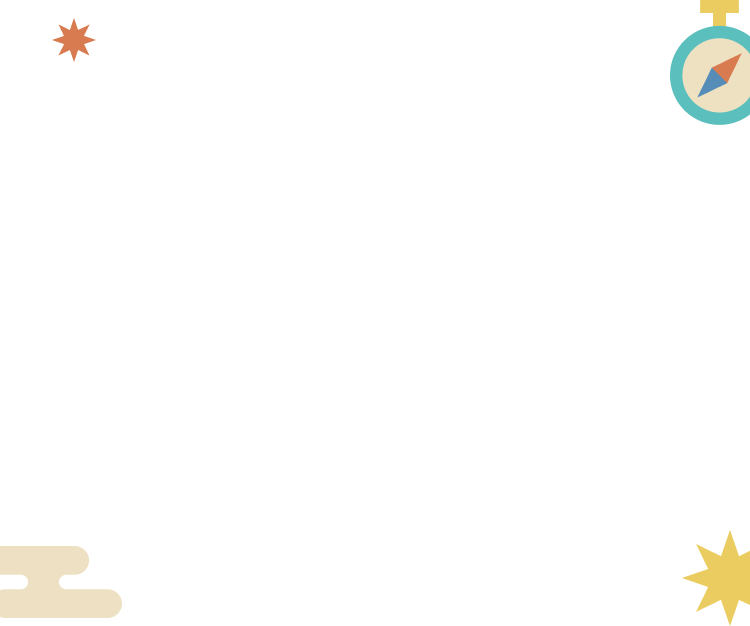
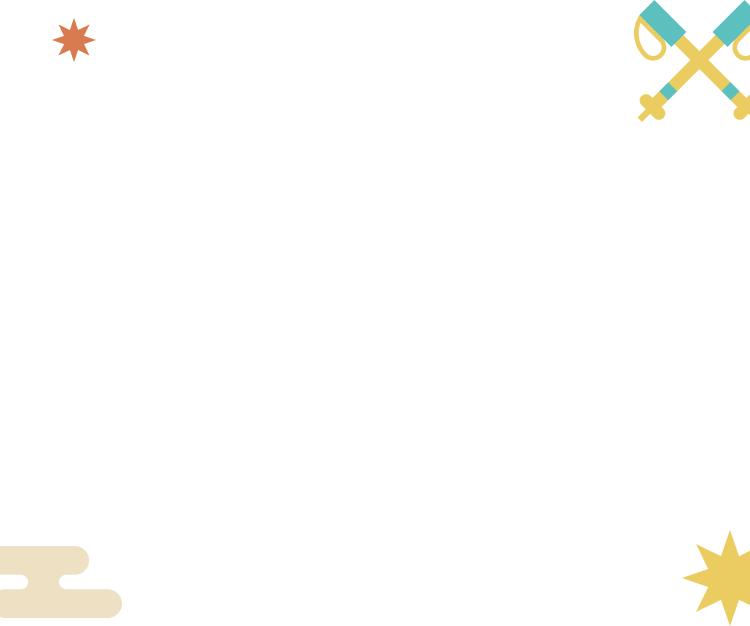
レイアウト修正

Changed region(s): [[0.828, 0.0, 1.0, 0.2125]]

diff --git a/index.html b/index.html
@@ -208,15 +208,16 @@
                   <li data-slide="11"><img src="./assets/img/top/logo_cobmaster.svg" alt="COBMASTER"></li>
                   <li data-slide="12"><img src="./assets/img/top/logo_goalzero.svg" alt="GOALZERO"></li>
                   <li data-slide="13"><img src="./assets/img/top/logo_sabba.svg" alt="SABBATICAL"></li>
-                  <li data-slide="14"><img src="./assets/img/top/logo_duckrowdepart.png" alt="DUCKROW DEPART"></li>
-                  <li data-slide="15"><img src="./assets/img/top/logo_danner.svg" alt="Danner"></li>
-                  <li data-slide="16"><img src="./assets/img/top/logo_tempra.svg" alt="TEMPRA GARAGE TOKYO"></li>
-                  <li data-slide="17"><img src="./assets/img/top/logo_never-wasted.svg" alt="NEVER WASTED"></li>
-                  <li data-slide="18"><img src="./assets/img/top/logo_nora.svg" alt="NORAs"></li>
-                  <li data-slide="19"><img src="./assets/img/top/logo_half-track-products.svg" alt="HALFTRACKPRODUCTS"></li>
-                  <li data-slide="20"><img src="./assets/img/top/logo_hotarakashi.png" alt="ほったらかしキャンプ場"></li>
-                  <li data-slide="21"><img src="./assets/img/top/logo_parasol.svg" alt="PARA-SOL MARKET"></li>
-                  <li data-slide="22"><img src="./assets/img/top/logo_kurotakimura.png" alt="黒滝村森林組合"></li>
+                  <li data-slide="14"><img src="./assets/img/top/logo_kurotakimura.png" alt="黒滝村森林組合"></li>
+                  <li data-slide="15"><img src="./assets/img/top/logo_duckrowdepart.png" alt="DUCKROW DEPART"></li>
+                  <li data-slide="16"><img src="./assets/img/top/logo_danner.svg" alt="Danner"></li>
+                  <li data-slide="17"><img src="./assets/img/top/logo_tempra.svg" alt="TEMPRA GARAGE TOKYO"></li>
+                  <li data-slide="18"><img src="./assets/img/top/logo_never-wasted.svg" alt="NEVER WASTED"></li>
+                  <li data-slide="19"><img src="./assets/img/top/logo_nora.svg" alt="NORAs"></li>
+                  <li data-slide="20"><img src="./assets/img/top/logo_half-track-products.svg" alt="HALFTRACKPRODUCTS"></li>
+                  <li data-slide="21"><img src="./assets/img/top/logo_hotarakashi.png" alt="ほったらかしキャンプ場"></li>
+                  <li data-slide="22"><img src="./assets/img/top/logo_parasol.svg" alt="PARA-SOL MARKET"></li>
+                  
                   <li style="pointer-events: none;"><p>and more...</p></li>
                 </ul>
               </div>
@@ -411,6 +412,18 @@
                       </div>
                       <div class="swiper-slide">
                         <div class="swiper-slide-wrap">
+                          <div class="logoImg"><img src="./assets/img/top/logo_kurotakimura.svg" alt="黒滝村森林組合"></div>
+                          <p class="txt">
+                            <span class="modal__brandname">
+                              黒滝村森林組合
+                            </span>
+                            
+                            Instagram : <a href="https://www.instagram.com/kurotaki_shinrin/" target="_blank">@kurotaki_shinrin</a><br>
+                            <a href="https://www.k-shinrin.jp/" target="_blank" rel="noopener noreferrer">https://www.k-shinrin.jp/</a></p>
+                        </div>
+                      </div>
+                      <div class="swiper-slide">
+                        <div class="swiper-slide-wrap">
                           <div class="logoImg"><img src="./assets/img/top/logo_duckrowdepart.svg" alt="DUCKROW DEPART"></div>
                           <p class="txt">
                             <span class="modal__brandname">
@@ -501,18 +514,7 @@
                             「創る」楽しさを多くの方に伝えるブランドです。全国各地に出向き多くの方へ「ワクワク」するモノ作りや様々な商品をご提供しています。今回、ワークショップと併せて、数量限定とはなりますがpara-sol market関連商品もお持ちしますので皆様！ お待ちしています!<br><br>Instagram : <a href="https://www.instagram.com/parasol_market/" target="_blank" rel="noopener noreferrer">@parasol_market</a></p>
                         </div>
                       </div>
-                      <div class="swiper-slide">
-                        <div class="swiper-slide-wrap">
-                          <div class="logoImg"><img src="./assets/img/top/logo_kurotakimura.svg" alt="黒滝村森林組合"></div>
-                          <p class="txt">
-                            <span class="modal__brandname">
-                              黒滝村森林組合
-                            </span>
-                            
-                            Instagram : <a href="https://www.instagram.com/kurotaki_shinrin/" target="_blank">@kurotaki_shinrin</a><br>
-                            <a href="https://www.k-shinrin.jp/" target="_blank" rel="noopener noreferrer">https://www.k-shinrin.jp/</a></p>
-                        </div>
-                      </div>
+                      
                       
                     </div>
                   </div>
@@ -571,7 +573,7 @@
                         <img src="./assets/img/special/1.png" alt="">
                       </p>
                       <p class="special__top-lead">親交のあるブランドや<br class="sp">ショップとの<br>コラボグッズを特別販売！</p>
-                      <p class="special__top-text">フイナムが親交のあるブランドとこれまでつくってきたコラボアイテムを販売します。直近でつくった以下の4つのコラボアイテムに加え、「the Apartment」や「CITY COUNTRY CITY」など、ここには載っていないアイテムも多数用意しています。普段はオンラインでのみの販売ですが、実際に手に取っていただける貴重な機会です！</p>
+                      <p class="special__top-text">フイナムが親交のあるブランドやショップとこれまでつくってきたコラボアイテムを販売します。直近でつくった以下の4つのコラボアイテムに加え、「the Apartment」や「CITY COUNTRY CITY」など、ここには載っていないアイテムも多数用意しています。普段はオンラインでのみの販売ですが、実際に手に取っていただける貴重な機会です！</p>
                     </div>
                     <ul class="special__list">
                       

diff --git a/assets/sass/parts/_about.scss b/assets/sass/parts/_about.scss
@@ -29,7 +29,6 @@
     width: 100%;
     margin-top: spc(11);
     left: 0;
-    
     @include pc{
         width: pcf(318);
         margin-top: pcf(157);
